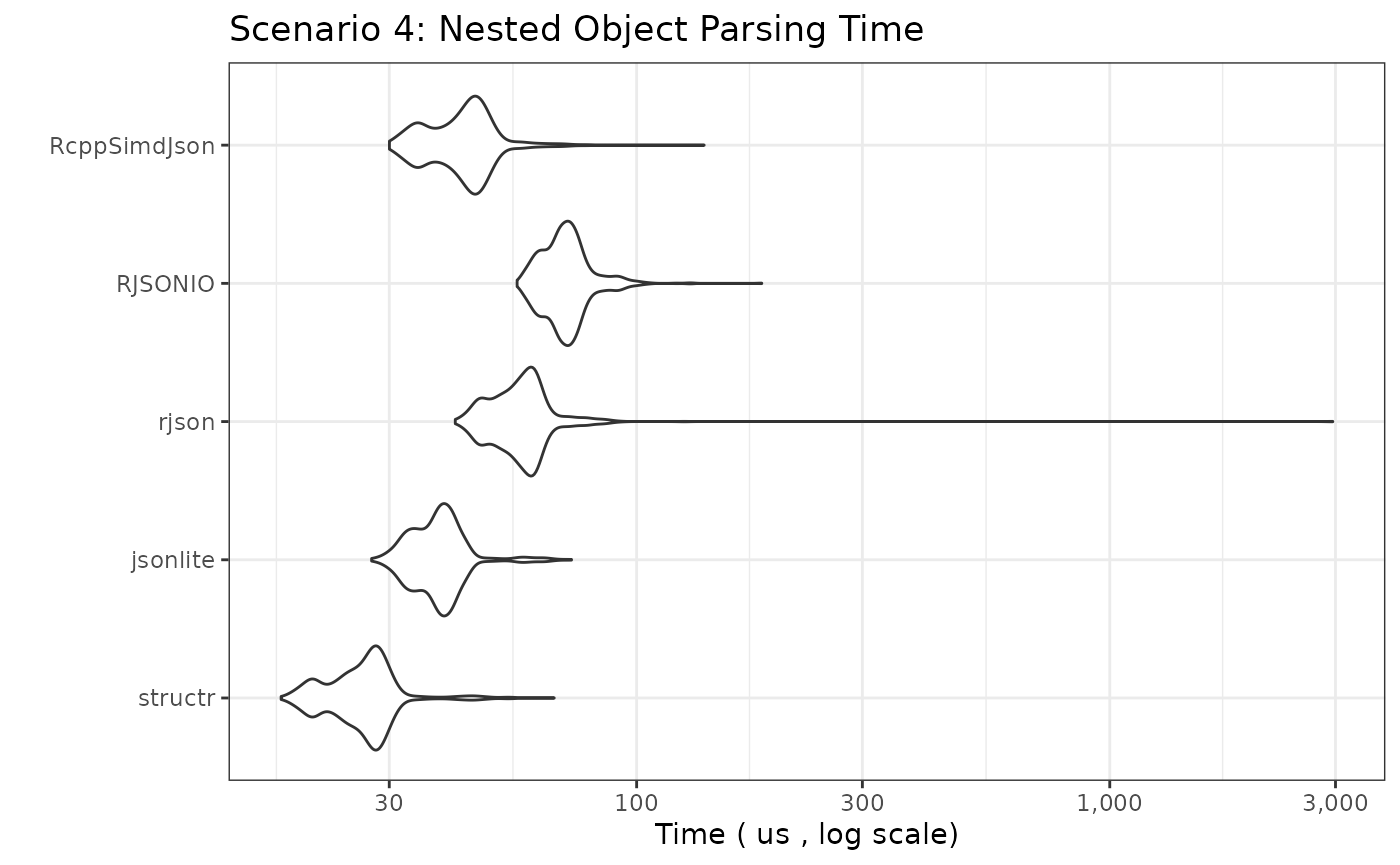
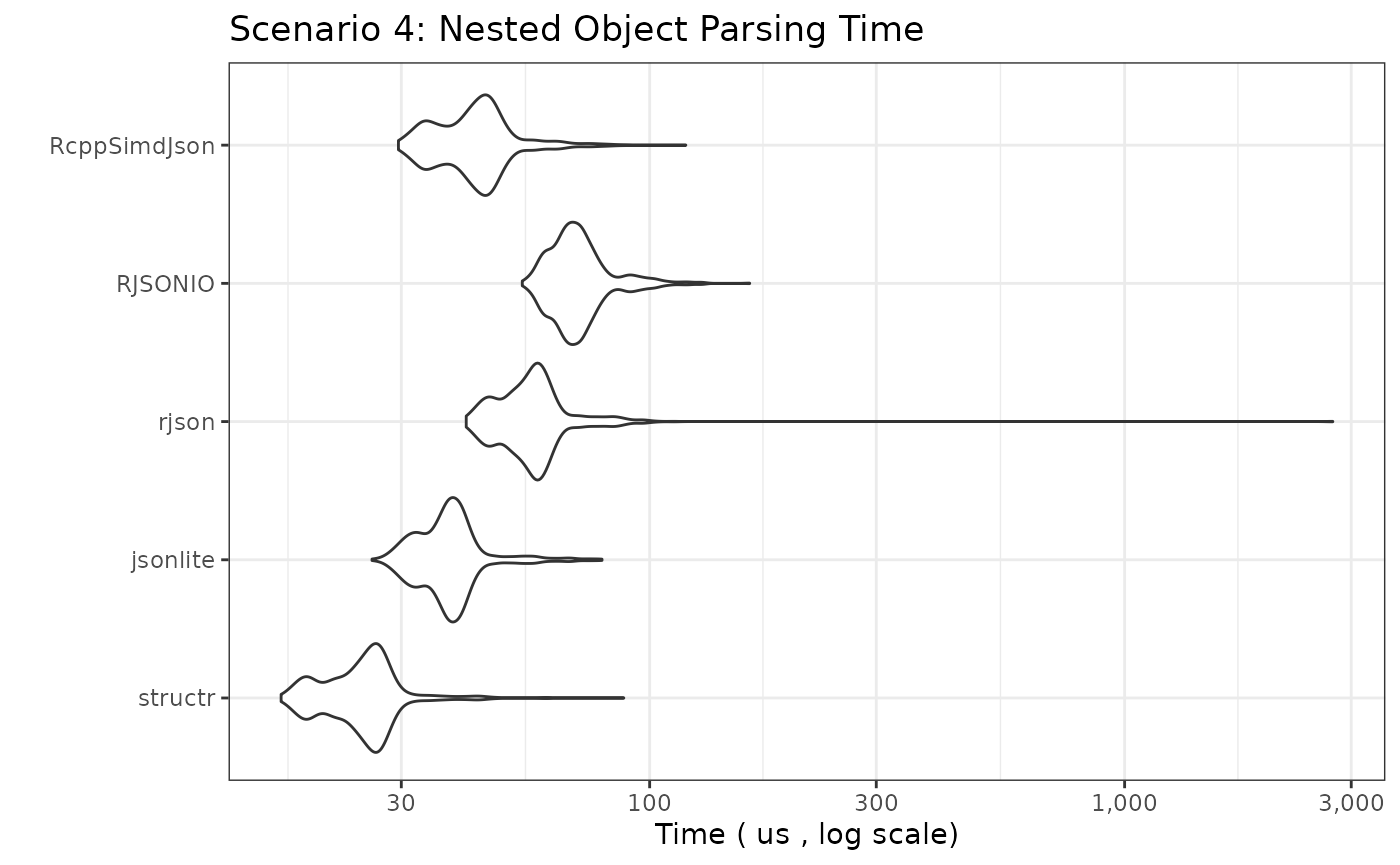
Deploying to gh-pages from @ ixpantia/structr@d9759748852b2f0efd42021ef20849823915c147 🚀

diff --git a/articles/bench.html b/articles/bench.html
@@ -160,12 +160,12 @@ speed.</p>
 <span>  y_label <span class="op">=</span> <span class="fu"><a href="https://rdrr.io/r/base/paste.html" class="external-link">paste</a></span><span class="op">(</span><span class="st">"Time ("</span>, <span class="va">benchmark_unit_fast</span>, <span class="st">", log scale)"</span><span class="op">)</span></span>
 <span><span class="op">)</span></span></code></pre></div>
 <pre><code><span><span class="co">## Unit: microseconds</span></span>
-<span><span class="co">##          expr    min     lq      mean  median      uq      max neval</span></span>
-<span><span class="co">##       structr  4.899  7.809  9.628398  9.5930 10.7100   57.898  1000</span></span>
-<span><span class="co">##      jsonlite 43.331 51.211 60.629954 55.3735 63.4885 2758.694  1000</span></span>
-<span><span class="co">##         rjson 29.044 37.645 43.226788 42.0590 46.6670  147.416  1000</span></span>
-<span><span class="co">##       RJSONIO 34.905 44.538 50.034030 49.1020 54.1660  149.560  1000</span></span>
-<span><span class="co">##  RcppSimdJson 21.050 28.148 32.695931 31.7000 35.4365   93.545  1000</span></span></code></pre>
+<span><span class="co">##          expr    min      lq      mean  median      uq      max neval</span></span>
+<span><span class="co">##       structr  4.429  7.1745  9.089279  9.1230 10.2605   45.445  1000</span></span>
+<span><span class="co">##      jsonlite 42.120 50.1350 59.516765 54.0720 63.4590 2606.993  1000</span></span>
+<span><span class="co">##         rjson 27.913 36.3635 41.853449 41.3180 45.3810  108.634  1000</span></span>
+<span><span class="co">##       RJSONIO 33.774 43.4070 48.786924 47.7505 52.7145  171.811  1000</span></span>
+<span><span class="co">##  RcppSimdJson 21.120 27.8780 32.452443 31.5550 35.1820  139.712  1000</span></span></code></pre>
 <p><img src="bench_files/figure-html/bm_simple_object-1.png" width="700" style="display: block; margin: auto;"></p>
 </div>
 <div class="section level3">
@@ -186,12 +186,12 @@ speed.</p>
 <span>  y_label <span class="op">=</span> <span class="fu"><a href="https://rdrr.io/r/base/paste.html" class="external-link">paste</a></span><span class="op">(</span><span class="st">"Time ("</span>, <span class="va">benchmark_unit_fast</span>, <span class="st">", log scale)"</span><span class="op">)</span></span>
 <span><span class="op">)</span></span></code></pre></div>
 <pre><code><span><span class="co">## Unit: microseconds</span></span>
-<span><span class="co">##          expr    min      lq      mean  median      uq      max neval</span></span>
-<span><span class="co">##       structr  3.877  6.1870  7.659723  7.7950  8.8420   31.128  1000</span></span>
-<span><span class="co">##      jsonlite 33.633 38.7225 42.436922 41.8735 44.5330   97.532  1000</span></span>
-<span><span class="co">##         rjson 32.301 38.2170 43.625715 43.6620 46.9825  139.471  1000</span></span>
-<span><span class="co">##       RJSONIO 46.066 53.9710 58.501977 57.9280 61.2650  153.337  1000</span></span>
-<span><span class="co">##  RcppSimdJson 21.600 26.0535 33.375351 30.0160 32.6760 3480.163  1000</span></span></code></pre>
+<span><span class="co">##          expr    min      lq     mean  median      uq      max neval</span></span>
+<span><span class="co">##       structr  3.769  6.0675  7.47874  7.6500  8.6170   25.780  1000</span></span>
+<span><span class="co">##      jsonlite 32.602 38.3680 42.67619 41.7390 44.3840  105.888  1000</span></span>
+<span><span class="co">##         rjson 31.770 37.8315 43.69839 43.3015 46.4025  110.147  1000</span></span>
+<span><span class="co">##       RJSONIO 44.394 53.3000 58.58510 57.4380 60.9850  123.672  1000</span></span>
+<span><span class="co">##  RcppSimdJson 21.471 25.9745 33.49190 30.1175 32.7420 3119.990  1000</span></span></code></pre>
 <p><img src="bench_files/figure-html/bm_simple_array_int-1.png" width="700" style="display: block; margin: auto;"></p>
 </div>
 <div class="section level3">
@@ -212,12 +212,12 @@ speed.</p>
 <span>  y_label <span class="op">=</span> <span class="fu"><a href="https://rdrr.io/r/base/paste.html" class="external-link">paste</a></span><span class="op">(</span><span class="st">"Time ("</span>, <span class="va">benchmark_unit_fast</span>, <span class="st">", log scale)"</span><span class="op">)</span></span>
 <span><span class="op">)</span></span></code></pre></div>
 <pre><code><span><span class="co">## Unit: microseconds</span></span>
-<span><span class="co">##          expr    min      lq      mean  median     uq      max neval</span></span>
-<span><span class="co">##       structr  4.399  6.2265  7.521492  7.6540  8.536   35.897  1000</span></span>
-<span><span class="co">##      jsonlite 25.558 30.2165 33.778803 33.8280 35.987   84.788  1000</span></span>
-<span><span class="co">##         rjson 29.566 35.7620 40.131123 40.1450 42.925  122.750  1000</span></span>
-<span><span class="co">##       RJSONIO 41.127 48.2750 52.384849 52.0170 54.887  173.815  1000</span></span>
-<span><span class="co">##  RcppSimdJson 21.460 26.0340 33.232824 29.9265 32.381 3448.544  1000</span></span></code></pre>
+<span><span class="co">##          expr    min      lq     mean  median      uq      max neval</span></span>
+<span><span class="co">##       structr  4.078  6.2570  7.50309  7.6090  8.4960   24.716  1000</span></span>
+<span><span class="co">##      jsonlite 25.848 30.4620 33.88277 33.7080 35.8870   70.722  1000</span></span>
+<span><span class="co">##         rjson 29.365 35.7370 40.15605 40.1900 42.8550  101.249  1000</span></span>
+<span><span class="co">##       RJSONIO 40.746 47.5590 51.83998 51.4655 54.9125  142.125  1000</span></span>
+<span><span class="co">##  RcppSimdJson 21.641 26.3145 32.45551 29.8455 32.1600 2761.380  1000</span></span></code></pre>
 <p><img src="bench_files/figure-html/bm_simple_array_str-1.png" width="700" style="display: block; margin: auto;"></p>
 </div>
 <div class="section level3">
@@ -239,12 +239,12 @@ speed.</p>
 <span>  y_label <span class="op">=</span> <span class="fu"><a href="https://rdrr.io/r/base/paste.html" class="external-link">paste</a></span><span class="op">(</span><span class="st">"Time ("</span>, <span class="va">benchmark_unit_fast</span>, <span class="st">", log scale)"</span><span class="op">)</span></span>
 <span><span class="op">)</span></span></code></pre></div>
 <pre><code><span><span class="co">## Unit: microseconds</span></span>
-<span><span class="co">##          expr    min      lq     mean median      uq      max neval</span></span>
-<span><span class="co">##       structr 17.723 23.6090 26.62472 26.840 28.7335   66.956  1000</span></span>
-<span><span class="co">##      jsonlite 27.532 34.4195 38.32534 38.131 40.6160   72.846  1000</span></span>
-<span><span class="co">##         rjson 41.368 51.3910 59.87309 57.046 61.0140 2960.933  1000</span></span>
-<span><span class="co">##       RJSONIO 55.894 65.3470 71.26470 70.411 74.8000  183.853  1000</span></span>
-<span><span class="co">##  RcppSimdJson 30.026 37.4145 43.02510 43.577 46.7275  138.899  1000</span></span></code></pre>
+<span><span class="co">##          expr    min      lq     mean  median      uq      max neval</span></span>
+<span><span class="co">##       structr 16.752 21.7605 25.16669 25.2620 27.1010   88.224  1000</span></span>
+<span><span class="co">##      jsonlite 26.029 33.9280 38.19167 37.6955 40.1600   79.379  1000</span></span>
+<span><span class="co">##         rjson 41.097 50.6345 59.58850 56.4200 60.4025 2743.528  1000</span></span>
+<span><span class="co">##       RJSONIO 53.931 64.5355 71.52599 69.0990 74.6740  162.393  1000</span></span>
+<span><span class="co">##  RcppSimdJson 29.586 36.9340 43.29700 43.2100 46.5670  119.163  1000</span></span></code></pre>
 <p><img src="bench_files/figure-html/bm_nested_object-1.png" width="700" style="display: block; margin: auto;"></p>
 </div>
 <div class="section level3">
@@ -265,12 +265,12 @@ speed.</p>
 <span>  y_label <span class="op">=</span> <span class="fu"><a href="https://rdrr.io/r/base/paste.html" class="external-link">paste</a></span><span class="op">(</span><span class="st">"Time ("</span>, <span class="va">benchmark_unit_medium</span>, <span class="st">", log scale)"</span><span class="op">)</span></span>
 <span><span class="op">)</span></span></code></pre></div>
 <pre><code><span><span class="co">## Unit: milliseconds</span></span>
-<span><span class="co">##          expr      min       lq       mean    median        uq      max neval</span></span>
-<span><span class="co">##       structr 0.220863 0.262465 0.28311189 0.2778940 0.2957330 2.373445   500</span></span>
-<span><span class="co">##      jsonlite 0.122008 0.155716 0.16990592 0.1641965 0.1719865 3.829496   500</span></span>
-<span><span class="co">##         rjson 0.163736 0.182130 0.19942589 0.1974645 0.2129330 0.357728   500</span></span>
-<span><span class="co">##       RJSONIO 0.251840 0.273727 0.29330441 0.2817020 0.2923765 3.941244   500</span></span>
-<span><span class="co">##  RcppSimdJson 0.056276 0.068388 0.08353724 0.0792780 0.0983685 0.164498   500</span></span></code></pre>
+<span><span class="co">##          expr      min        lq       mean    median        uq      max neval</span></span>
+<span><span class="co">##       structr 0.170228 0.2153470 0.22994897 0.2243940 0.2391865 1.747199   500</span></span>
+<span><span class="co">##      jsonlite 0.121286 0.1539020 0.16594439 0.1620970 0.1677470 3.367251   500</span></span>
+<span><span class="co">##         rjson 0.162954 0.1764045 0.19189677 0.1884065 0.2059890 0.258812   500</span></span>
+<span><span class="co">##       RJSONIO 0.251108 0.2716010 0.28870706 0.2795420 0.2899105 3.649697   500</span></span>
+<span><span class="co">##  RcppSimdJson 0.055905 0.0682375 0.08127627 0.0768130 0.0947020 0.152715   500</span></span></code></pre>
 <p><img src="bench_files/figure-html/bm_array_of_objects-1.png" width="700" style="display: block; margin: auto;"></p>
 </div>
 <div class="section level3">
@@ -294,12 +294,12 @@ speed.</p>
 <span>  y_label <span class="op">=</span> <span class="fu"><a href="https://rdrr.io/r/base/paste.html" class="external-link">paste</a></span><span class="op">(</span><span class="st">"Time ("</span>, <span class="va">benchmark_unit_medium</span>, <span class="st">", log scale)"</span><span class="op">)</span></span>
 <span><span class="op">)</span></span></code></pre></div>
 <pre><code><span><span class="co">## Unit: milliseconds</span></span>
-<span><span class="co">##          expr      min       lq      mean    median       uq       max neval</span></span>
-<span><span class="co">##       structr 2.293346 2.686099 2.8983130 2.8235060 2.942598 11.211379   500</span></span>
-<span><span class="co">##      jsonlite 1.400567 1.525115 1.6415773 1.5875965 1.662892 14.252662   500</span></span>
-<span><span class="co">##         rjson 1.366173 1.447510 1.6089160 1.4946480 1.625222  7.215202   500</span></span>
-<span><span class="co">##       RJSONIO 2.011919 2.203883 2.4133237 2.2988805 2.438481  8.339573   500</span></span>
-<span><span class="co">##  RcppSimdJson 0.334455 0.369205 0.4461707 0.4081325 0.449094  1.024274   500</span></span></code></pre>
+<span><span class="co">##          expr      min        lq      mean    median       uq       max neval</span></span>
+<span><span class="co">##       structr 2.039634 2.2578115 2.4951142 2.3678660 2.508825 13.940752   500</span></span>
+<span><span class="co">##      jsonlite 1.392448 1.4365900 1.5517232 1.4628990 1.563381  6.626530   500</span></span>
+<span><span class="co">##         rjson 1.346752 1.3941400 1.5532192 1.4241920 1.506165 11.865242   500</span></span>
+<span><span class="co">##       RJSONIO 2.021700 2.1895545 2.3005874 2.2062650 2.279511  7.433315   500</span></span>
+<span><span class="co">##  RcppSimdJson 0.334354 0.3544965 0.4267317 0.3714625 0.406188  3.952022   500</span></span></code></pre>
 <p><img src="bench_files/figure-html/bm_large_array_of_objects-1.png" width="700" style="display: block; margin: auto;"></p>
 </div>
 <div class="section level3">
@@ -322,12 +322,12 @@ speed.</p>
 <span>  y_label <span class="op">=</span> <span class="fu"><a href="https://rdrr.io/r/base/paste.html" class="external-link">paste</a></span><span class="op">(</span><span class="st">"Time ("</span>, <span class="va">benchmark_unit_medium</span>, <span class="st">", log scale)"</span><span class="op">)</span></span>
 <span><span class="op">)</span></span></code></pre></div>
 <pre><code><span><span class="co">## Unit: milliseconds</span></span>
-<span><span class="co">##          expr      min       lq      mean   median        uq       max neval</span></span>
-<span><span class="co">##       structr 0.190216 0.203921 0.2218562 0.217721 0.2377895  0.446084   500</span></span>
-<span><span class="co">##      jsonlite 2.342447 2.721716 2.9307843 2.844640 3.0236150  7.780067   500</span></span>
-<span><span class="co">##         rjson 1.048729 1.085509 1.2326951 1.129927 1.1602330 12.456987   500</span></span>
-<span><span class="co">##       RJSONIO 2.547110 2.611460 2.7382284 2.651429 2.7046135  8.168213   500</span></span>
-<span><span class="co">##  RcppSimdJson 0.190907 0.211836 0.2429138 0.242268 0.2656915  0.401610   500</span></span></code></pre>
+<span><span class="co">##          expr      min        lq      mean   median        uq       max neval</span></span>
+<span><span class="co">##       structr 0.189384 0.1978090 0.2145628 0.205919 0.2274790  0.729841   500</span></span>
+<span><span class="co">##      jsonlite 2.299479 2.6265340 2.7824669 2.699009 2.8016865  7.170655   500</span></span>
+<span><span class="co">##         rjson 1.043647 1.0689490 1.1909223 1.081812 1.1088935 11.211392   500</span></span>
+<span><span class="co">##       RJSONIO 2.576846 2.6060210 2.7007530 2.622572 2.6457650  7.358586   500</span></span>
+<span><span class="co">##  RcppSimdJson 0.189513 0.2041955 0.2207457 0.211304 0.2387155  0.353519   500</span></span></code></pre>
 <p><img src="bench_files/figure-html/bm_large_array_int-1.png" width="700" style="display: block; margin: auto;"></p>
 </div>
 <div class="section level3">
@@ -350,12 +350,12 @@ speed.</p>
 <span>  y_label <span class="op">=</span> <span class="fu"><a href="https://rdrr.io/r/base/paste.html" class="external-link">paste</a></span><span class="op">(</span><span class="st">"Time ("</span>, <span class="va">benchmark_unit_medium</span>, <span class="st">", log scale)"</span><span class="op">)</span></span>
 <span><span class="op">)</span></span></code></pre></div>
 <pre><code><span><span class="co">## Unit: milliseconds</span></span>
-<span><span class="co">##          expr      min       lq      mean    median       uq       max neval</span></span>
-<span><span class="co">##       structr 0.679089 0.702042 0.7294717 0.7214035 0.752056  1.057065   500</span></span>
-<span><span class="co">##      jsonlite 2.285100 2.474328 2.7454330 2.5779725 2.818137  7.696802   500</span></span>
-<span><span class="co">##         rjson 1.315969 1.375144 1.4844561 1.4189110 1.457429  6.430927   500</span></span>
-<span><span class="co">##       RJSONIO 3.490122 3.567095 3.7466009 3.6169640 3.679866 12.904934   500</span></span>
-<span><span class="co">##  RcppSimdJson 0.637051 0.663029 0.7010752 0.6992670 0.725330  1.130963   500</span></span></code></pre>
+<span><span class="co">##          expr      min        lq      mean    median        uq       max neval</span></span>
+<span><span class="co">##       structr 0.677746 0.6952935 0.7146474 0.7059030 0.7333990  1.168000   500</span></span>
+<span><span class="co">##      jsonlite 2.250689 2.3831465 2.5624123 2.4560420 2.6109010  7.343960   500</span></span>
+<span><span class="co">##         rjson 1.322558 1.3707325 1.4673928 1.3977430 1.4261815  6.315381   500</span></span>
+<span><span class="co">##       RJSONIO 3.471897 3.5220150 3.6579798 3.5443470 3.5749445 11.932629   500</span></span>
+<span><span class="co">##  RcppSimdJson 0.638051 0.6575825 0.6817317 0.6708325 0.7040545  1.136080   500</span></span></code></pre>
 <p><img src="bench_files/figure-html/bm_large_array_str-1.png" width="700" style="display: block; margin: auto;"></p>
 </div>
 <div class="section level3">
@@ -378,11 +378,11 @@ speed.</p>
 <span><span class="op">)</span></span></code></pre></div>
 <pre><code><span><span class="co">## Unit: microseconds</span></span>
 <span><span class="co">##          expr    min      lq     mean  median      uq      max neval</span></span>
-<span><span class="co">##       structr 12.944 16.1500 18.05234 18.0390 19.4060   47.058  1000</span></span>
-<span><span class="co">##      jsonlite 16.932 20.4780 23.32355 23.2740 24.7810  106.660  1000</span></span>
-<span><span class="co">##         rjson 30.397 36.5585 45.36166 41.4020 44.0980 4452.169  1000</span></span>
-<span><span class="co">##       RJSONIO 38.632 46.2320 50.65506 50.3390 53.2545  168.665  1000</span></span>
-<span><span class="co">##  RcppSimdJson 23.824 28.5890 32.62929 32.5905 34.9250   89.517  1000</span></span></code></pre>
+<span><span class="co">##       structr 12.283 15.9200 17.73371 17.7880 19.2005   40.947  1000</span></span>
+<span><span class="co">##      jsonlite 16.842 20.1125 22.76351 22.8130 24.3250   71.133  1000</span></span>
+<span><span class="co">##         rjson 29.836 35.3860 44.40679 40.4155 43.0050 4327.040  1000</span></span>
+<span><span class="co">##       RJSONIO 37.450 44.7990 49.20665 48.8560 51.8565  173.023  1000</span></span>
+<span><span class="co">##  RcppSimdJson 23.714 28.3330 32.10450 32.2350 34.4200   72.916  1000</span></span></code></pre>
 <p><img src="bench_files/figure-html/bm_deep_nest-1.png" width="700" style="display: block; margin: auto;"></p>
 </div>
 <div class="section level3">
@@ -405,11 +405,11 @@ speed.</p>
 <span><span class="op">)</span></span></code></pre></div>
 <pre><code><span><span class="co">## Unit: milliseconds</span></span>
 <span><span class="co">##          expr      min        lq       mean    median        uq      max neval</span></span>
-<span><span class="co">##       structr 0.062557 0.0702865 0.07548090 0.0747400 0.0781960 0.127528   500</span></span>
-<span><span class="co">##      jsonlite 0.040625 0.0518020 0.05606523 0.0555130 0.0583345 0.143819   500</span></span>
-<span><span class="co">##         rjson 0.063379 0.0729510 0.08044549 0.0796340 0.0847485 0.160290   500</span></span>
-<span><span class="co">##       RJSONIO 0.083536 0.0931790 0.11212560 0.0993555 0.1058075 5.373411   500</span></span>
-<span><span class="co">##  RcppSimdJson 0.033582 0.0409810 0.04792000 0.0473690 0.0522420 0.121878   500</span></span></code></pre>
+<span><span class="co">##       structr 0.059240 0.0677715 0.07257593 0.0720840 0.0750650 0.117350   500</span></span>
+<span><span class="co">##      jsonlite 0.039935 0.0495670 0.05385760 0.0534690 0.0565950 0.107130   500</span></span>
+<span><span class="co">##         rjson 0.062907 0.0725450 0.07915046 0.0789070 0.0833910 0.181629   500</span></span>
+<span><span class="co">##       RJSONIO 0.082244 0.0912150 0.10898195 0.0975065 0.1034830 4.972184   500</span></span>
+<span><span class="co">##  RcppSimdJson 0.033423 0.0406105 0.04678831 0.0468470 0.0512155 0.099455   500</span></span></code></pre>
 <p><img src="bench_files/figure-html/bm_wide_object-1.png" width="700" style="display: block; margin: auto;"></p>
 </div>
 </div>

diff --git a/reference/s_vector.html b/reference/s_vector.html
@@ -85,13 +85,13 @@ vector. This should be the result of another <code>s_*</code> function call (e.g
 <span class="r-out co"><span class="r-pr">#&gt;</span> Vector(</span>
 <span class="r-out co"><span class="r-pr">#&gt;</span>     Map {</span>
 <span class="r-out co"><span class="r-pr">#&gt;</span>         fields: {</span>
-<span class="r-out co"><span class="r-pr">#&gt;</span>             "id": Integer,</span>
 <span class="r-out co"><span class="r-pr">#&gt;</span>             "name": String,</span>
+<span class="r-out co"><span class="r-pr">#&gt;</span>             "id": Integer,</span>
 <span class="r-out co"><span class="r-pr">#&gt;</span>         },</span>
 <span class="r-out co"><span class="r-pr">#&gt;</span>         ignore_extra_fields: false,</span>
 <span class="r-out co"><span class="r-pr">#&gt;</span>         expected_fields_str: [</span>
-<span class="r-out co"><span class="r-pr">#&gt;</span>             "id",</span>
 <span class="r-out co"><span class="r-pr">#&gt;</span>             "name",</span>
+<span class="r-out co"><span class="r-pr">#&gt;</span>             "id",</span>
 <span class="r-out co"><span class="r-pr">#&gt;</span>         ],</span>
 <span class="r-out co"><span class="r-pr">#&gt;</span>     },</span>
 <span class="r-out co"><span class="r-pr">#&gt;</span> )</span>
